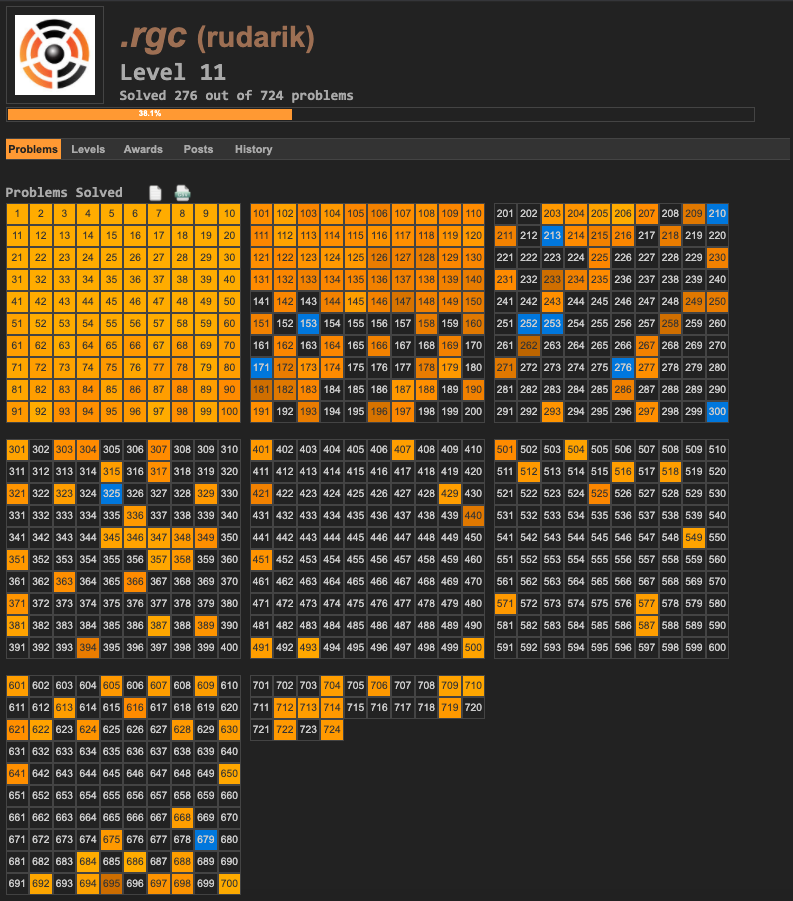
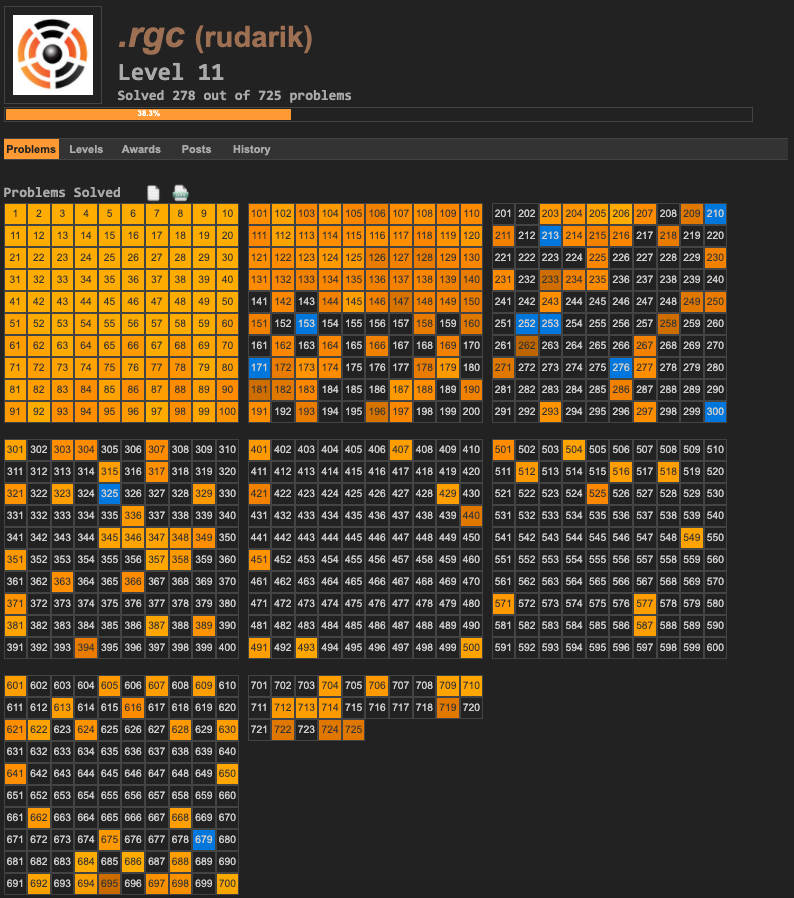
Solved 662 and 725

Changed region(s): [[0.0, 0.0, 0.9382, 0.9978], [0.3026, 0.1559, 0.3329, 0.1871], [0.2421, 0.1559, 0.2724, 0.1871]]

diff --git a/README.md b/README.md
@@ -65,7 +65,7 @@ Problem 700: "Eulercoin"
 * [Faulhaber's Formula](https://en.wikipedia.org/wiki/Faulhaber%27s_formula)
 
 * [Fibonacci Numbers](https://en.wikipedia.org/wiki/Fibonacci_number)
-Problem 2: "Even Fibonacci numbers", Problem 104: "Pandigital Fibonacci ends", Problem 230: "Fibonacci words"
+Problem 2: "Even Fibonacci numbers", Problem 104: "Pandigital Fibonacci ends", Problem 230: "Fibonacci words", Problem 662: "Fibonacci Paths"
 
 * [Gamma Function](https://en.wikipedia.org/wiki/Gamma_function)
 
